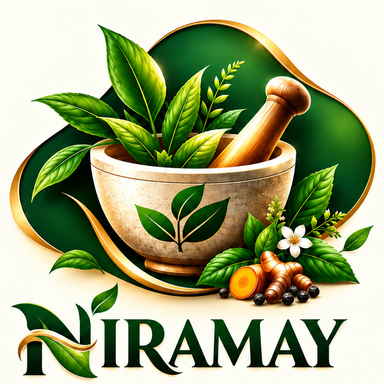
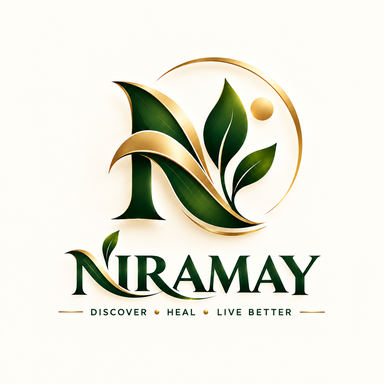
branding: Niramay official brand assets Phase 3 — listing + APK launcher input
Replaces public/brand/niramay-icon-384.png (marketplace listing icon)
and public/brand/niramay-icon-launcher-512.png (the ICON_URL input the
release workflow bakes into Niramay APK launcher icons at build time)
with deterministic whole-artwork derivations of the supplied official
Niramay master: complete composition — N-symbol + NIRAMAY wordmark +
DISCOVER - HEAL - LIVE BETTER tagline — LANCZOS downscaled from the
1254px square, zero crop, artwork's own cream background.

Adds tests/niramay-brand-assets.test.ts: pinned fingerprints (old
mortar-and-pestle artwork detection) + whole-square sanity, so neither
surface can silently revert. Catalog icon path and record fields
unchanged; no other app touched.

diff --git a/tests/niramay-brand-assets.test.ts b/tests/niramay-brand-assets.test.ts
@@ -1,0 +1,51 @@
+/**
+ * Niramay brand-asset fingerprints (Phase 3, 2026-10-16).
+ *
+ * The Niramay APK launcher icons are baked at build time by
+ * lib/apk-builder.ts from the ICON_URL input, which points at
+ * public/brand/niramay-icon-launcher-512.png. A silent reversion of that
+ * file (or the marketplace listing icon) would rebuild or relist the OLD
+ * mortar-and-pestle branding without any test noticing. These pins make
+ * the platform suite fail first.
+ *
+ * Source of truth: the supplied official Niramay artwork (complete
+ * composition — symbol + NIRAMAY wordmark + DISCOVER • HEAL • LIVE BETTER
+ * tagline, 1254x1254 cream background).
+ */
+import { describe, it, expect } from 'vitest';
+import { createHash } from 'node:crypto';
+import { readFileSync } from 'node:fs';
+
+const sha256 = (p: string) =>
+  createHash('sha256').update(readFileSync(p)).digest('hex');
+
+// Deterministic whole-artwork derivatives of the supplied master.
+const PINS: Record<string, string> = {
+  // complete artwork, 512x512, LANCZOS downscale of the whole square
+  'public/brand/niramay-icon-launcher-512.png':
[1 lines of base64/hex data omitted]
+  // complete artwork, 384x384, LANCZOS downscale of the whole square
+  'public/brand/niramay-icon-384.png':
[1 lines of base64/hex data omitted]
+};
+
+describe('Niramay official brand assets (Phase 3)', () => {
+  it.each(Object.entries(PINS))('pins %s to the complete official artwork', (path, expected) => {
+    expect(sha256(path as string)).toBe(expected);
+  });
+
+  it('the launcher input and the listing icon are whole-square artwork (no symbol-only crop)', () => {
+    // Both files are 512/384 squares derived from the same 1254px master:
+    // the complete composition occupies ~69% of the canvas width. A
+    // symbol-only extraction would show a much narrower content column.
+    // (Full pixel-decode geometry is enforced by the niramay repo's own
+    // scripts/verify-branding.ts suite; these platform pins guard the
+    // exact bytes the APK build and marketplace consume.)
+    for (const path of Object.keys(PINS)) {
+      const buf = readFileSync(path);
+      const w = buf.readUInt32BE(16);
+      const h = buf.readUInt32BE(20);
+      expect(w).toBe(h);
+    }
+  });
+});
